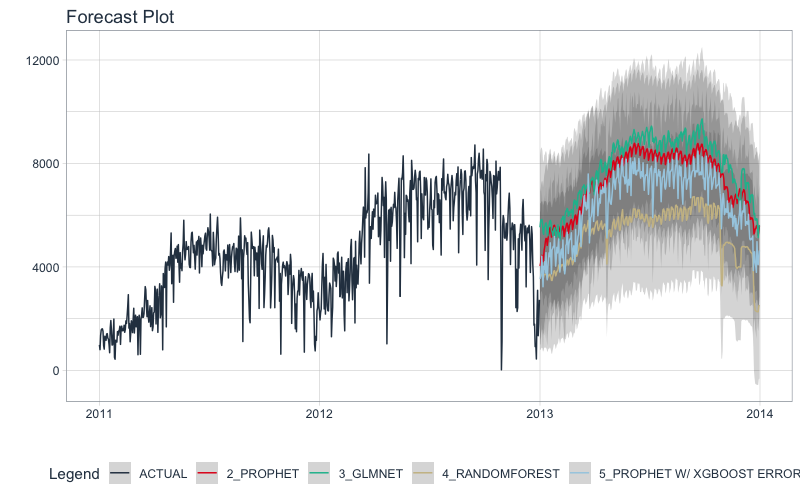
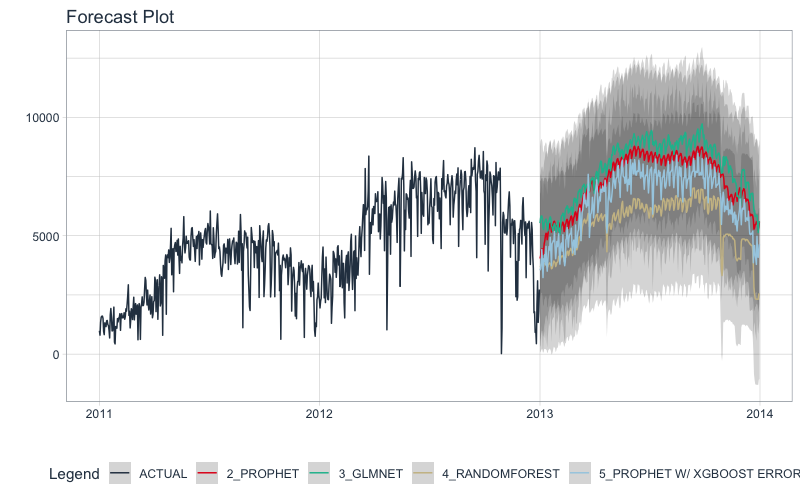
update for new conf interval method

diff --git a/_posts/2020-06-29-introducing-modeltime.md b/_posts/2020-06-29-introducing-modeltime.md
@@ -55,11 +55,11 @@ Load the following libraries.
 
 
 {% highlight r %}
-library(tidyverse)
 library(tidymodels)
 library(modeltime)
 library(timetk)   
 library(lubridate)
+library(tidyverse)
 {% endhighlight %}
 
 # Get Your Data <br><small>Forecasting daily bike transactions</small>
@@ -178,7 +178,7 @@ model_fit_arima
 {% highlight text %}
 ## parsnip model object
 ## 
-## Fit time:  334ms 
+## Fit time:  327ms 
 ## Series: outcome 
 ## ARIMA(0,1,3) with drift 
 ## 
@@ -210,7 +210,7 @@ model_fit_prophet
 {% highlight text %}
 ## parsnip model object
 ## 
-## Fit time:  156ms 
+## Fit time:  153ms 
 ## PROPHET Model
 ## - growth: 'linear'
 ## - n.changepoints: 25
@@ -347,7 +347,7 @@ workflow_fit_prophet_boost <- workflow() %>%
 
 
 {% highlight text %}
-## [07:37:35] WARNING: amalgamation/../src/learner.cc:480: 
+## [09:18:48] WARNING: amalgamation/../src/learner.cc:480: 
 ## Parameters: { validation } might not be used.
 ## 
 ##   This may not be accurate due to some parameters are only used in language bindings but
@@ -364,11 +364,11 @@ workflow_fit_prophet_boost
 
 
 {% highlight text %}
-## ══ Workflow [trained] ═════════════════════════════════════════════════════════════════════════════════════════════════════════
+## ══ Workflow [trained] ════════════════════════════════════════════════════════════════════════════════════════════════
 ## Preprocessor: Recipe
 ## Model: prophet_boost()
 ## 
-## ── Preprocessor ───────────────────────────────────────────────────────────────────────────────────────────────────────────────
+## ── Preprocessor ──────────────────────────────────────────────────────────────────────────────────────────────────────
 ## 4 Recipe Steps
 ## 
 ## ● step_timeseries_signature()
@@ -376,7 +376,7 @@ workflow_fit_prophet_boost
 ## ● step_fourier()
 ## ● step_dummy()
 ## 
-## ── Model ──────────────────────────────────────────────────────────────────────────────────────────────────────────────────────
+## ── Model ─────────────────────────────────────────────────────────────────────────────────────────────────────────────
 ## PROPHET w/ XGBoost Errors
 ## ---
 ## Model 1: PROPHET
@@ -493,7 +493,7 @@ calibration_table %>%
   font-family: -apple-system, BlinkMacSystemFont, 'Segoe UI', Roboto, Oxygen, Ubuntu, Cantarell, 'Helvetica Neue', 'Fira Sans', 'Droid Sans', Arial, sans-serif;
 }
 
-#reehzdasks .gt_table {
+#wswglunyrj .gt_table {
   display: table;
   border-collapse: collapse;
   margin-left: auto;
@@ -516,7 +516,7 @@ calibration_table %>%
   border-left-color: #D3D3D3;
 }
 
-#reehzdasks .gt_heading {
+#wswglunyrj .gt_heading {
   background-color: #FFFFFF;
   text-align: center;
   border-bottom-color: #FFFFFF;
@@ -528,7 +528,7 @@ calibration_table %>%
   border-right-color: #D3D3D3;
 }
 
-#reehzdasks .gt_title {
+#wswglunyrj .gt_title {
   color: #333333;
   font-size: 125%;
   font-weight: initial;
@@ -538,7 +538,7 @@ calibration_table %>%
   border-bottom-width: 0;
 }
 
-#reehzdasks .gt_subtitle {
+#wswglunyrj .gt_subtitle {
   color: #333333;
   font-size: 85%;
   font-weight: initial;
@@ -548,13 +548,13 @@ calibration_table %>%
   border-top-width: 0;
 }
 
-#reehzdasks .gt_bottom_border {
+#wswglunyrj .gt_bottom_border {
   border-bottom-style: solid;
   border-bottom-width: 2px;
   border-bottom-color: #D3D3D3;
 }
 
-#reehzdasks .gt_col_headings {
+#wswglunyrj .gt_col_headings {
   border-top-style: solid;
   border-top-width: 2px;
   border-top-color: #D3D3D3;
@@ -569,7 +569,7 @@ calibration_table %>%
   border-right-color: #D3D3D3;
 }
 
-#reehzdasks .gt_col_heading {
+#wswglunyrj .gt_col_heading {
   color: #333333;
   background-color: #FFFFFF;
   font-size: 100%;
@@ -589,7 +589,7 @@ calibration_table %>%
   overflow-x: hidden;
 }
 
-#reehzdasks .gt_column_spanner_outer {
+#wswglunyrj .gt_column_spanner_outer {
   color: #333333;
   background-color: #FFFFFF;
   font-size: 100%;
@@ -601,15 +601,15 @@ calibration_table %>%
   padding-right: 4px;
 }
 
-#reehzdasks .gt_column_spanner_outer:first-child {
+#wswglunyrj .gt_column_spanner_outer:first-child {
   padding-left: 0;
 }
 
-#reehzdasks .gt_column_spanner_outer:last-child {
+#wswglunyrj .gt_column_spanner_outer:last-child {
   padding-right: 0;
 }
 
-#reehzdasks .gt_column_spanner {
+#wswglunyrj .gt_column_spanner {
   border-bottom-style: solid;
   border-bottom-width: 2px;
   border-bottom-color: #D3D3D3;
@@ -621,7 +621,7 @@ calibration_table %>%
   width: 100%;
 }
 
-#reehzdasks .gt_group_heading {
+#wswglunyrj .gt_group_heading {
   padding: 8px;
   color: #333333;
   background-color: #FFFFFF;
@@ -643,7 +643,7 @@ calibration_table %>%
   vertical-align: middle;
 }
 
-#reehzdasks .gt_empty_group_heading {
+#wswglunyrj .gt_empty_group_heading {
   padding: 0.5px;
   color: #333333;
   background-color: #FFFFFF;
@@ -658,19 +658,19 @@ calibration_table %>%
   vertical-align: middle;
 }
 
-#reehzdasks .gt_striped {
+#wswglunyrj .gt_striped {
   background-color: rgba(128, 128, 128, 0.05);
 }
 
-#reehzdasks .gt_from_md > :first-child {
+#wswglunyrj .gt_from_md > :first-child {
   margin-top: 0;
 }
 
-#reehzdasks .gt_from_md > :last-child {
+#wswglunyrj .gt_from_md > :last-child {
   margin-bottom: 0;
 }
 
-#reehzdasks .gt_row {
+#wswglunyrj .gt_row {
   padding-top: 8px;
   padding-bottom: 8px;
   padding-left: 5px;
@@ -689,7 +689,7 @@ calibration_table %>%
   overflow-x: hidden;
 }
 
-#reehzdasks .gt_stub {
+#wswglunyrj .gt_stub {
   color: #333333;
   background-color: #FFFFFF;
   font-size: 100%;
@@ -701,7 +701,7 @@ calibration_table %>%
   padding-left: 12px;
 }
 
-#reehzdasks .gt_summary_row {
+#wswglunyrj .gt_summary_row {
   color: #333333;
   background-color: #FFFFFF;
   text-transform: inherit;
@@ -711,7 +711,7 @@ calibration_table %>%
   padding-right: 5px;
 }
 
-#reehzdasks .gt_first_summary_row {
+#wswglunyrj .gt_first_summary_row {
   padding-top: 8px;
   padding-bottom: 8px;
   padding-left: 5px;
@@ -721,7 +721,7 @@ calibration_table %>%
   border-top-color: #D3D3D3;
 }
 
-#reehzdasks .gt_grand_summary_row {
+#wswglunyrj .gt_grand_summary_row {
   color: #333333;
   background-color: #FFFFFF;
   text-transform: inherit;
@@ -731,7 +731,7 @@ calibration_table %>%
   padding-right: 5px;
 }
 
-#reehzdasks .gt_first_grand_summary_row {
+#wswglunyrj .gt_first_grand_summary_row {
   padding-top: 8px;
   padding-bottom: 8px;
   padding-left: 5px;
@@ -741,7 +741,7 @@ calibration_table %>%
   border-top-color: #D3D3D3;
 }
 
-#reehzdasks .gt_table_body {
+#wswglunyrj .gt_table_body {
   border-top-style: solid;
   border-top-width: 2px;
   border-top-color: #D3D3D3;
@@ -750,7 +750,7 @@ calibration_table %>%
   border-bottom-color: #D3D3D3;
 }
 
-#reehzdasks .gt_footnotes {
+#wswglunyrj .gt_footnotes {
   color: #333333;
   background-color: #FFFFFF;
   border-bottom-style: none;
@@ -764,13 +764,13 @@ calibration_table %>%
   border-right-color: #D3D3D3;
 }
 
-#reehzdasks .gt_footnote {
+#wswglunyrj .gt_footnote {
   margin: 0px;
   font-size: 90%;
   padding: 4px;
 }
 
-#reehzdasks .gt_sourcenotes {
+#wswglunyrj .gt_sourcenotes {
   color: #333333;
   background-color: #FFFFFF;
   border-bottom-style: none;
@@ -784,46 +784,46 @@ calibration_table %>%
   border-right-color: #D3D3D3;
 }
 
-#reehzdasks .gt_sourcenote {
+#wswglunyrj .gt_sourcenote {
   font-size: 90%;
   padding: 4px;
 }
 
-#reehzdasks .gt_left {
+#wswglunyrj .gt_left {
   text-align: left;
 }
 
-#reehzdasks .gt_center {
+#wswglunyrj .gt_center {
   text-align: center;
 }
 
-#reehzdasks .gt_right {
+#wswglunyrj .gt_right {
   text-align: right;
   font-variant-numeric: tabular-nums;
 }
 
-#reehzdasks .gt_font_normal {
+#wswglunyrj .gt_font_normal {
   font-weight: normal;
 }
 
-#reehzdasks .gt_font_bold {
+#wswglunyrj .gt_font_bold {
   font-weight: bold;
 }
 
-#reehzdasks .gt_font_italic {
+#wswglunyrj .gt_font_italic {
   font-style: italic;
 }
 
-#reehzdasks .gt_super {
+#wswglunyrj .gt_super {
   font-size: 65%;
 }
 
-#reehzdasks .gt_footnote_marks {
+#wswglunyrj .gt_footnote_marks {
   font-style: italic;
   font-size: 65%;
 }
 </style>
-<div id="reehzdasks" style="overflow-x:auto;overflow-y:auto;width:auto;height:auto;"><table class="gt_table">
+<div id="wswglunyrj" style="overflow-x:auto;overflow-y:auto;width:auto;height:auto;"><table class="gt_table">
   <thead class="gt_header">
     <tr>
       <th colspan="9" class="gt_heading gt_title gt_font_normal" style>Accuracy Table</th>
@@ -883,12 +883,12 @@ calibration_table %>%
       <td class="gt_row gt_center">4</td>
       <td class="gt_row gt_left">RANDOMFOREST</td>
       <td class="gt_row gt_left">Test</td>
-      <td class="gt_row gt_right">1362.71</td>
-      <td class="gt_row gt_right">343.39</td>
-      <td class="gt_row gt_right">1.47</td>
-      <td class="gt_row gt_right">30.96</td>
-      <td class="gt_row gt_right">1889.24</td>
-      <td class="gt_row gt_right">0.46</td>
+      <td class="gt_row gt_right">1328.68</td>
+      <td class="gt_row gt_right">332.88</td>
+      <td class="gt_row gt_right">1.44</td>
+      <td class="gt_row gt_right">30.51</td>
+      <td class="gt_row gt_right">1839.60</td>
+      <td class="gt_row gt_right">0.42</td>
     </tr>
     <tr>
       <td class="gt_row gt_center">5</td>
@@ -937,7 +937,7 @@ calibration_table %>%
 
 
 {% highlight text %}
-## [07:37:41] WARNING: amalgamation/../src/learner.cc:480: 
+## [09:18:55] WARNING: amalgamation/../src/learner.cc:480: 
 ## Parameters: { validation } might not be used.
 ## 
 ##   This may not be accurate due to some parameters are only used in language bindings but
@@ -991,7 +991,7 @@ Comment on [GitHub Issue #5](https://github.com/business-science/modeltime/issue
 
 ### Improvements 
 
-__I have several improvements forthcoming.__ Probably the most important of which is the confidence interval calculations. I plan to use the method used by `earth::earth()`, which calculates prediction intervals by regressing the absolute errors vs the predictions. This should provide better approximation of forecast confidence.
+__Confidence interval calculations:__ I have several improvements forthcoming. Probably the most important of which is the confidence interval calculations. This will come in release `modeltime` 0.0.2.
 
 # Modeltime Resources
 
